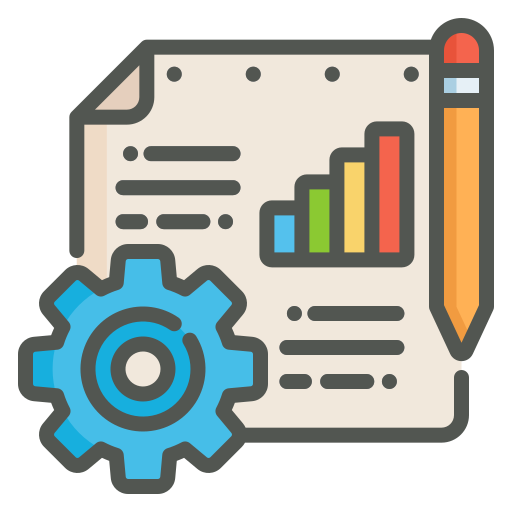
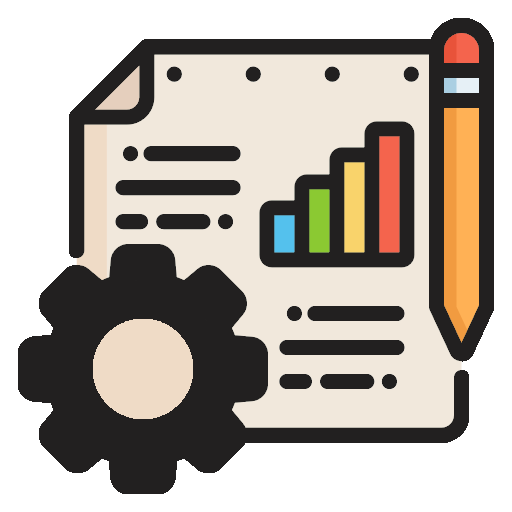
I've changed text content in about , experience, studies and contact sections.
Moreover, I've changed the icons in order to suit the new backgrounds and border colors.
Finally, I've removed all projects which are not visitable , and added a github link in case anynone desires to check my code. Talkscouture now redirects to the official page, not github repository.

diff --git a/src/app/components/projects/projects.component.html b/src/app/components/projects/projects.component.html
@@ -5,74 +5,19 @@
     
         <section class="myProjects">
             <ul>
-                <a href="https://github.com/Turbrecher/metropolis-remake" target="_blank">
-                    <li>
-                        <span class="project">Metropolis.</span>
-                        <span class="description">A cinema page in which you can see which movies are on billboard and buy tickets for them!</span>
-                        <span class="description">As an admin, you can create rooms, movies, movie sessions and more!</span>
-                        <section class="tags">
-                            <span>TypeScript</span>
-                            <span>SASS</span>
-                            <span>Angular 18</span>
-                        </section>
-                    </li>
-                </a>
+                
     
-                <a href="https://github.com/Turbrecher/metropolis-remake-api" target="_blank">
-                    <li>
-                        <span class="project">Metropolis API.</span>
-                        <span class="description">The REST API that controls every database action of Metropolis!</span>
-                        <section class="tags">
-                            <span>PHP</span>
-                            <span>Laravel 11</span>
-                        </section>
-                    </li>
-                </a>
-    
-                <a href="https://github.com/Turbrecher/talkscouture" target="_blank">
+                <a href="https://talkscouture.com/" target="_blank">
                     <li>
                         <span class="project">Talks Couture.</span>
-                        <span class="description">A newspaper like web page in which you can read fashion related articles</span>
+                        <span class="description">A newspaper like web page in which you can read fashion related articles.</span>
                         <span class="description">As an admin, you can create new articles and new writer users, which can control their own articles!</span>
                         <section class="tags">
                             <span>TypeScript</span>
                             <span>SASS</span>
                             <span>Angular 18</span>
-                        </section>
-                    </li>
-                </a>
-    
-                <a href="https://github.com/Turbrecher/talkscouture-api" target="_blank">
-                    <li>
-                        <span class="project">Talks Couture API.</span>
-                        <span class="description">The REST API that controls every database action of Talks Couture!</span>
-                        <section class="tags">
                             <span>PHP</span>
                             <span>Laravel 11</span>
-                        </section>
-                    </li>
-                </a>
-    
-                <a href="https://github.com/Turbrecher/app-los-puertoriquenos" target="_blank">
-                    <li>
-                        <span class="project">Los Puertoriquenos.</span>
-                        <span class="description">This web page is a custom one. I like playing boardgames with family and compete over who has won the most of them</span>
-                        <span class="description">This application lets you keep track of it by creating tournaments, games and players. Every time you play a game, you can add it to the application and never forget who is the real winner!</span>
-                        <section class="tags">
-                            <span>TypeScript</span>
-                            <span>SASS</span>
-                            <span>Angular 18</span>
-                        </section>
-                    </li>
-                </a>
-    
-                <a href="https://github.com/Turbrecher/app_los_puertoriquenos_api" target="_blank">
-                    <li>
-                        <span class="project">Los Puertoriquenos API.</span>
-                        <span class="description">The REST API that controls every database action of Los Puertoriquenos!</span>
-                        <section class="tags">
-                            <span>Python</span>
-                            <span>Django</span>
                         </section>
                     </li>
                 </a>
@@ -87,31 +32,9 @@
     
         <section class="myProjects">
             <ul>
-                <a href="https://github.com/Turbrecher/metropolis-remake" target="_blank">
-                    <li>
-                        <span class="project">Metropolis.</span>
-                        <span class="description">Una web de cine en la que puedes ver las películas en cartelera y comprar tickets para sesiones!</span>
-                        <span class="description">¡Como administrador, puedes crear salas, películas, sesiones y mucho más!</span>
-                        <section class="tags">
-                            <span>TypeScript</span>
-                            <span>SASS</span>
-                            <span>Angular 18</span>
-                        </section>
-                    </li>
-                </a>
+
     
-                <a href="https://github.com/Turbrecher/metropolis-remake-api" target="_blank">
-                    <li>
-                        <span class="project">Metropolis API.</span>
-                        <span class="description">¡La API REST que controla todas las acciones de la base de datos de Metropolis!</span>
-                        <section class="tags">
-                            <span>PHP</span>
-                            <span>Laravel 11</span>
-                        </section>
-                    </li>
-                </a>
-    
-                <a href="https://github.com/Turbrecher/talkscouture" target="_blank">
+                <a href="https://talkscouture.com/" target="_blank">
                     <li>
                         <span class="project">Talks Couture.</span>
                         <span class="description">Una página web en la que podrás leer artículos sobre moda.</span>
@@ -120,41 +43,8 @@
                             <span>TypeScript</span>
                             <span>SASS</span>
                             <span>Angular 18</span>
-                        </section>
-                    </li>
-                </a>
-    
-                <a href="https://github.com/Turbrecher/talkscouture-api" target="_blank">
-                    <li>
-                        <span class="project">Talks Couture API.</span>
-                        <span class="description">¡La API REST que controla todas las acciones de la base de datos de Talks Couture!</span>
-                        <section class="tags">
                             <span>PHP</span>
                             <span>Laravel 11</span>
-                        </section>
-                    </li>
-                </a>
-    
-                <a href="https://github.com/Turbrecher/app-los-puertoriquenos" target="_blank">
-                    <li>
-                        <span class="project">Los Puertoriquenos.</span>
-                        <span class="description">Esta página web es una bastante específica y curiosa. Personalmente me gusta jugar a juegos de mesa con la familia y competir para ver quien ha ganado más partidas.</span>
-                        <span class="description">Esta aplicación te permite registrar esas puntuaciones en tablas creando partidas, torneos y participantes. ¡Cada vez que juegues una partida, podrás añadirla a la aplicación y así saber a ciencia cierta quién es el ganador!</span>
-                        <section class="tags">
-                            <span>TypeScript</span>
-                            <span>SASS</span>
-                            <span>Angular 18</span>
-                        </section>
-                    </li>
-                </a>
-    
-                <a href="https://github.com/Turbrecher/app_los_puertoriquenos_api" target="_blank">
-                    <li>
-                        <span class="project">Los Puertoriquenos API.</span>
-                        <span class="description">¡La API REST que controla todas las acciones de la base de datos de Los Puertoriquenos!</span>
-                        <section class="tags">
-                            <span>Python</span>
-                            <span>Django</span>
                         </section>
                     </li>
                 </a>

diff --git a/src/app/components/about-me/about-me.component.html b/src/app/components/about-me/about-me.component.html
@@ -1,25 +1,30 @@
 @if(english){
-    <article class="about">
+<article class="about">
 
-        <app-card title="WHO AM I?" photo="images/photo.jpeg"/>
-    
-        <section class="description">
-            <p>Hey there! I'm Victor, a just graduated web developer. I live in Huelva, Andalusia.</p>
-            <p>I consider myself a resolutive, active person, who always tries to do his best.</p>
-            <p>I really enjoy pulling my hair out in order to solve problems and learning new things every day.</p>
-            <p>I can't wait to start a new project!</p>
-        </section>
-    </article>
+    <app-card title="WHO AM I?" photo="images/photo.jpeg" />
+
+    <section class="description">
+        <p>Certificate of Higher Education on Web Development.</p>
+        <p>Focused on the creation of a complete product, having knowledge of both client-side and server-side
+            technologies.</p>
+        <p>A layout designer and data structure professional. Always searching for a responsive and usable user
+            interface for a good user experience.</p>
+        <p>Highly adaptable to new technologies and agile methodologies. A critical thinker with up to standard
+            communication skills.</p>
+    </section>
+</article>
 }@else if(spanish){
-    <article class="about">
+<article class="about">
 
-        <app-card title="¿QUIÉN SOY?" photo="images/photo.jpeg"/>
-    
-        <section class="description">
-            <p>¡Hola! Soy Víctor, un desarrollador web recién graduado. Vivo en Huelva, Andalucía</p>
-            <p>Me considero una persona resolutiva y activa que siempre intenta dar lo mejor de sí mismo</p>
-            <p>Me gusta romperme la cabeza con nuevos desafíos y aprender cosas nuevas.</p>
-            <p>Estoy bastante motivado para empezar!</p>
-        </section>
-    </article>
+    <app-card title="¿QUIÉN SOY?" photo="images/photo.jpeg" />
+
+    <section class="description">
+        <p>Técnico superior en Desarrollo de Aplicaciones Web.</p>
+        <p>Enfocado en la creación de un producto completo, con conocimientos tanto de tecnologías del lado cliente como
+            servidor.</p>
+        <p>Profesional en maquetación web y estructura de datos. Metódico en la búsqueda de una interfaz responsiva y
+            óptima para el usuario.</p>
+        <p>Adaptable a nuevas tecnologías y metodologías ágiles. Resolutivo y buen comunicador.</p>
+    </section>
+</article>
 }

diff --git a/src/app/components/studies/studies.component.html b/src/app/components/studies/studies.component.html
@@ -1,18 +1,19 @@
 @if(english){
     <article class="studies">
 
-        <app-card title="STUDIES" photo="images/books.jpg"/>
+        <app-card title="STUDIES" photo="images/books.png"/>
     
         <section class="myStudies">
             <ul>
+    
+                <li>
+                    <span class="study">Certificate of Higher Education on Web Development.</span>
+                    <span class="place">I.E.S San Sebastian, Huelva.</span>
+                </li>
+
                 <li>
                     <span class="study">Technological Science Bachellor.</span>
                     <span class="place">I.E.S Juan Antonio Perez Mercader, Corrales.</span>
-                </li>
-    
-                <li>
-                    <span class="study">Web App Development.</span>
-                    <span class="place">I.E.S San Sebastian, Huelva.</span>
                 </li>
     
             </ul>
@@ -21,18 +22,19 @@
 }@else if(spanish){
     <article class="studies">
 
-        <app-card title="ESTUDIOS" photo="images/books.jpg"/>
+        <app-card title="ESTUDIOS" photo="images/books.png"/>
     
         <section class="myStudies">
             <ul>
+
+                <li>
+                    <span class="study">C.F.G.S en Desarrollo de aplicaciones web.</span>
+                    <span class="place">I.E.S San Sebastian, Huelva.</span>
+                </li>
+
                 <li>
                     <span class="study">Bachillerato de ciencias tecnológicas.</span>
                     <span class="place">I.E.S Juan Antonio Perez Mercader, Corrales.</span>
-                </li>
-    
-                <li>
-                    <span class="study">Desarrollo de aplicaciones web.</span>
-                    <span class="place">I.E.S San Sebastian, Huelva.</span>
                 </li>
     
             </ul>

diff --git a/src/app/components/contact/contact.component.html b/src/app/components/contact/contact.component.html
@@ -1,21 +1,26 @@
 @if(english){
-    <article class="contact">
+<article class="contact">
 
-        <app-card title="CONTACT" photo="images/location.png"/>
-    
-        <section class="description">
-            <p>E-mail: {{email}}</p>
-            <p>Phone: {{phone}}</p>
-        </section>
-    </article>
+    <app-card title="CONTACT" photo="images/location.png" />
+
+    <section class="description">
+        <p>E-mail: {{email}}</p>
+        <p>Phone: {{phone}}</p>
+        <p>Linkedin: <a target="_blank" href="{{linkedin}}">VictorVeraCoronel</a></p>
+        <p>Github: <a target="_blank" href="{{github}}">VictorVeraCoronel</a></p>
+    </section>
+</article>
 }@else if(spanish){
-    <article class="contact">
+<article class="contact">
 
-        <app-card title="CONTACTO" photo="images/location.png"/>
-    
-        <section class="description">
-            <p>E-mail: {{email}}</p>
-            <p>Teléfono: {{phone}}</p>
-        </section>
-    </article>
+    <app-card title="CONTACTO" photo="images/location.png" />
+
+    <section class="description">
+        <p>E-mail: {{email}}</p>
+        <p>Teléfono: {{phone}}</p>
+        <p>Linkedin: <a target="_blank" href="{{linkedin}}">VictorVeraCoronel</a></p>
+        <p>Github: <a target="_blank" href="{{github}}">VictorVeraCoronel</a></p>
+
+    </section>
+</article>
 }

diff --git a/src/app/components/experience/experience.component.html b/src/app/components/experience/experience.component.html
@@ -6,6 +6,11 @@
         <section class="myExperience">
             <ul>
                 <li>
+                    <span class="theExperience">Full Stack Web Developer.</span>
+                    <span class="place">Freelance.</span>
+                </li>
+
+                <li>
                     <span class="theExperience">Layout designer.</span>
                     <span class="place">Soporttec S.L.</span>
                 </li>
@@ -20,6 +25,11 @@
     
         <section class="myExperience">
             <ul>
+                <li>
+                    <span class="theExperience">Desarrollador Web Full Stack.</span>
+                    <span class="place">Freelance.</span>
+                </li>
+
                 <li>
                     <span class="theExperience">Maquetador web.</span>
                     <span class="place">Soporttec S.L.</span>

diff --git a/src/app/components/contact/contact.component.ts b/src/app/components/contact/contact.component.ts
@@ -12,8 +12,10 @@ import { CookieService } from 'ngx-cookie-service';
 export class ContactComponent {
   public spanish: boolean = false
   public english: boolean = true
-  public email: string = 'victorveracoronel@outlook.es'
+  public email: string = 'victorveracoronel@live.com'
   public phone: string = '628780562'
+  public linkedin: string = 'https://www.linkedin.com/in/victorveracoronel/'
+  public github: string = 'https://github.com/VictorVeraCoronel'
 
   constructor(private cookieService: CookieService) {
 

diff --git a/src/app/components/card/card.component.sass b/src/app/components/card/card.component.sass
@@ -23,7 +23,7 @@
         margin: 0 auto
         .photo
             z-index: 0
-            border: solid #2863e4 5px
+            border: solid #222020 5px
             padding: 0
             box-shadow: none
             transform: rotate(0)
@@ -35,7 +35,7 @@
         .title
             padding: 0.3rem
             color: white
-            background: #2863e4
+            background: #222020
             width: 100%
             margin: 0 auto
             font-size: 3rem

diff --git a/src/index.html b/src/index.html
@@ -3,7 +3,7 @@
 
 <head>
   <meta charset="utf-8">
-  <title>Victor's Portfolio</title>
+  <title>Victor Vera</title>
   <base href="/">
   <meta name="viewport" content="width=device-width, initial-scale=1">
   <link rel="icon" type="image/x-icon" href="favicon.ico">

diff --git a/src/styles.sass b/src/styles.sass
@@ -4,10 +4,11 @@
     margin: 0
 
 body
+    background: #ffffff
     margin: 1vh
     padding: 1vh
     border: solid #222020 0.5vh
-    border-radius: 1vh
+    border-radius: 0
     min-height: 94.5vh
     max-height: 94.5vh
     z-index: 0

diff --git a/src/app/components/layout/nav/nav.component.sass b/src/app/components/layout/nav/nav.component.sass
@@ -40,7 +40,7 @@
     margin-top: 1rem
     display: block
     z-index: 10
-    background: #2863e4
+    background: #222020
     display: grid
     justify-content: center
     width: 100%

diff --git a/src/app/components/language-selector/language-selector.component.sass b/src/app/components/language-selector/language-selector.component.sass
@@ -2,7 +2,7 @@
     position: fixed
     bottom: 2rem
     left: 1.5rem
-    border-radius: 10px
+    border-radius: 0
     display: flex
     gap: 1rem
     background: #222020
